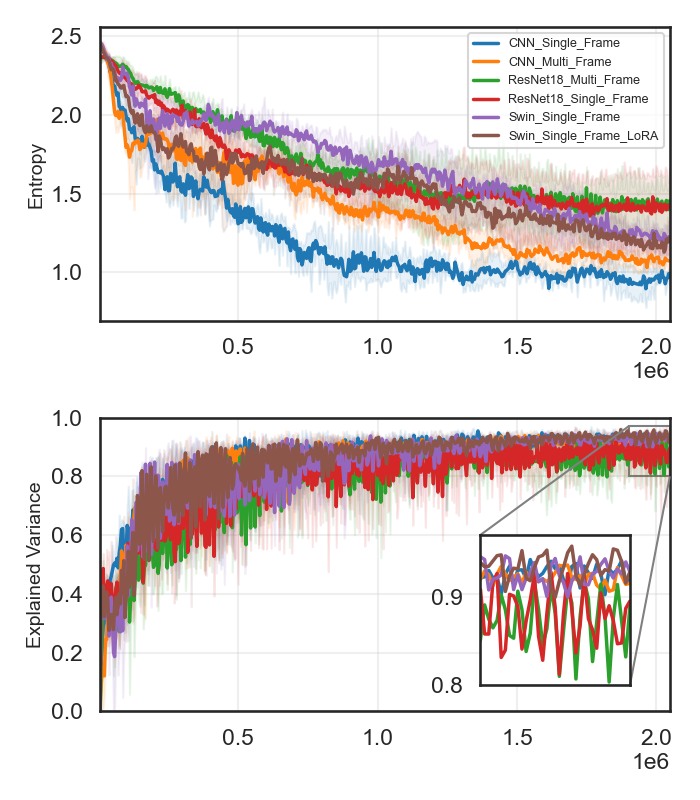
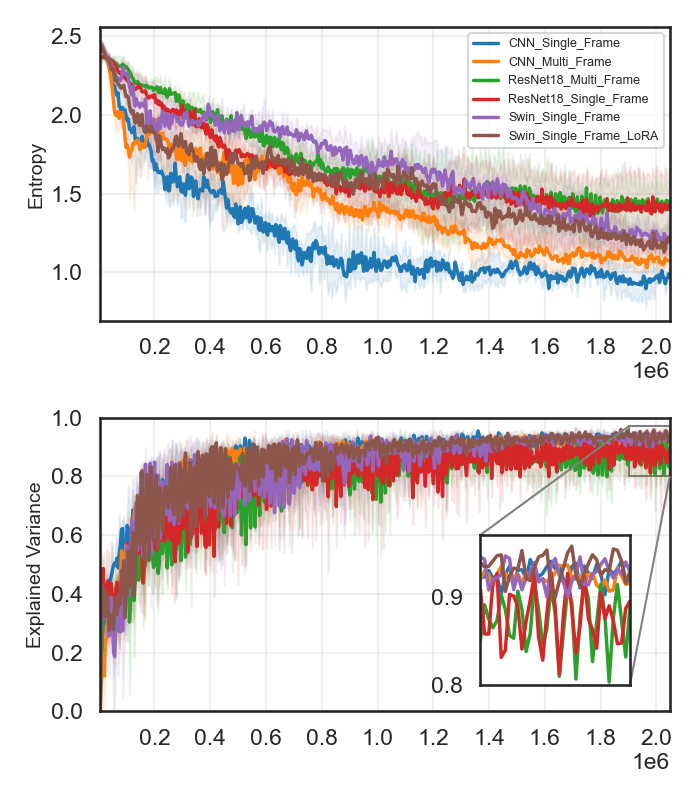
Migliorata la visualizzazione dei grafici di reward e loss

diff --git a/plot_loss.py b/plot_loss.py
@@ -5,6 +5,7 @@ import seaborn as sns
 import numpy as np
 from mpl_toolkits.axes_grid1.inset_locator import inset_axes
 from mpl_toolkits.axes_grid1.inset_locator import mark_inset
+from matplotlib.ticker import MultipleLocator
 
 
 # === SETUP ===
@@ -111,6 +112,7 @@ for idx, csv_file in enumerate(csv_files):
     # Configurazione specifica per il file corrente
     config = file_config.get(csv_file, {})
     ax.set_ylabel(config.get("ylabel", "Value"), fontsize=14)
+    ax.xaxis.set_major_locator(MultipleLocator(200000))
     ax.grid(True, alpha=0.3)
     if csv_file == "entropy.csv":
         ax.legend(loc="upper right", fontsize=9, frameon=True)

diff --git a/plot_reward.py b/plot_reward.py
@@ -3,6 +3,7 @@ import matplotlib.pyplot as plt
 from matplotlib.ticker import ScalarFormatter
 import seaborn as sns
 import numpy as np
+from matplotlib.ticker import MultipleLocator
 
 # === SETUP ===
 sns.set_style("white")
@@ -108,6 +109,7 @@ for idx, csv_file in enumerate(csv_files):
     # Configurazione specifica per il file corrente
     config = file_config.get(csv_file, {})
     ax.set_ylabel(config.get("ylabel", "Value"), fontsize=14)
+    ax.xaxis.set_major_locator(MultipleLocator(200000))
     ax.grid(True, alpha=0.3)
     if csv_file == "reward.csv":
         ax.legend(loc="upper left", fontsize=9, frameon=True)
